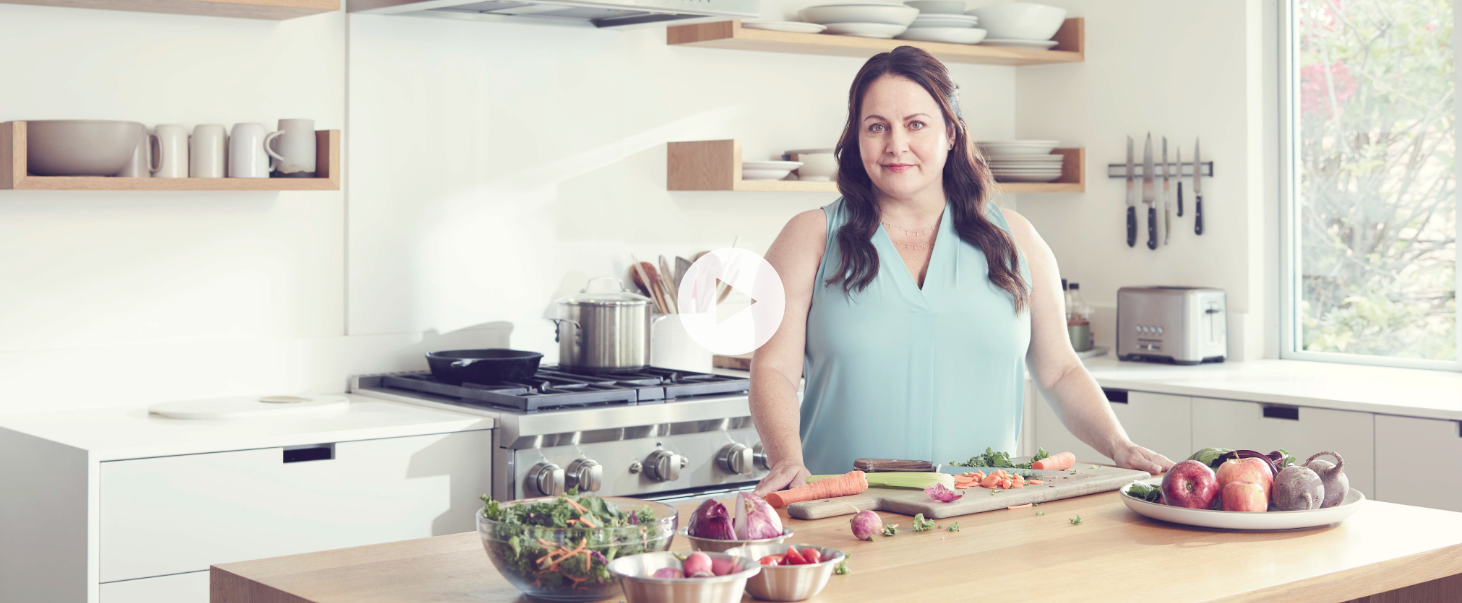
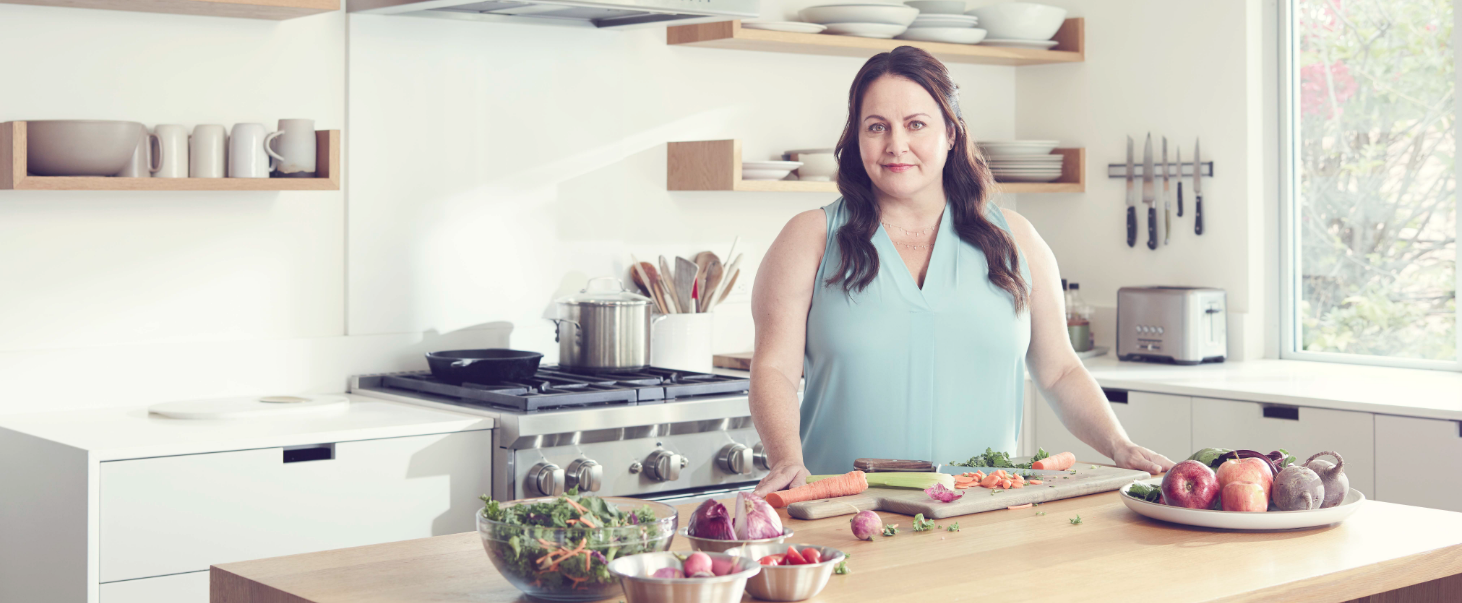
large version of background done, video done, header accordions z-index fixed

Changed region(s): [[0.4617, 0.4179, 0.554, 0.597]]

diff --git a/styles.css b/styles.css
@@ -17,8 +17,13 @@
 }
 
 .background__large {
-  background-image: url("src/background-large.png") !important;
-  height: 5142px;
+  background-image: url("src/background-large.png");
+  background-repeat: no-repeat;
+  z-index: 2;
+}
+
+.background__large:after {
+  opacity: 0.25;
 }
 
 .header {
@@ -125,14 +130,14 @@
   .header__categories-container {
     position: absolute;
     right: 0;
-    z-index: 1;
+    z-index: 100;
   }
 }
 
 @media (min-width: 1401px) and (max-width: 1700px) {
   .header__categories-container {
     position: absolute;
-    z-index: 1;
+    z-index: 100;
     right: calc(50% - 600px);
   }
 }
@@ -932,7 +937,6 @@
 }
 
 .video {
-  cursor: pointer;
   display: -webkit-box;
   display: -ms-flexbox;
   display: flex;
@@ -945,12 +949,48 @@
   -o-object-fit: cover;
      object-fit: cover;
   margin-bottom: 46px;
+  z-index: 2;
 }
 
-.video__actual {
+.video__wrapper {
+  position: relative;
+  cursor: pointer;
   width: 75%;
-  max-width: 1440px;
   height: auto;
+  max-width: 1440px;
+}
+
+@media screen and (max-width: 969px) {
+  .video__wrapper {
+    width: 100%;
+    height: 600px;
+  }
+}
+
+.video__wrapper:hover .video__button {
+  fill: #897ac8;
+  stroke: #897ac8;
+}
+
+.video__player {
+  width: 100%;
+  height: 100%;
+  max-height: 603px;
+  -o-object-fit: cover;
+     object-fit: cover;
+  -o-object-position: 65%;
+     object-position: 65%;
+}
+
+.video__button {
+  fill: #fff;
+  stroke: #fff;
+  stroke-width: 4;
+  opacity: 0.85;
+  position: absolute;
+  left: calc( 50% - 59px);
+  top: calc( 50% - 59px);
+  pointer-events: none;
 }
 
 body, html {

diff --git a/views/about.html b/views/about.html
@@ -10,7 +10,7 @@
 </head>
 
 <body>
-  <div class="background background__small"></div>
+  <div class="background background__large"></div>
   <div id="header" class="header">
     <div style="margin-top: 66px; margin-bottom: 77px;" class="header__container header__container--mt-66px">
       <img src="../src/logo-horizontal.png" alt="">
@@ -39,9 +39,16 @@
       </div>
     </div>
     <div class="video">
-      <video controls width="100%" height="100%" poster="../src/header-image-wide.png" id="player" playsinline>
-        <source src="../src/video1.mp4" type="video/mp4" />
-      </video>
+      <div class="video__wrapper">
+        <video class="video__player" poster="../src/header-image-wide.png" playsinline controls>
+          <source src="../src/video1.mp4" type="video/mp4" />
+        </video>
+        <svg class="video__button" xmlns="http://www.w3.org/2000/svg" width="107" height="107" viewBox="0 0 107 107">
+          <path
+            d="M987.225,452.852a51.873,51.873,0,1,0,51.875,51.873A51.874,51.874,0,0,0,987.225,452.852Zm26.045,54.272L993.8,518.366,974.324,529.61a2.77,2.77,0,0,1-4.154-2.4V482.239a2.77,2.77,0,0,1,4.154-2.4L993.8,491.084l19.474,11.243A2.769,2.769,0,0,1,1013.27,507.124Z"
+            transform="translate(-933.351 -450.852)" stroke-miterlimit="10" />
+        </svg>
+      </div>
     </div>
   </div>
 

diff --git a/components/video/video.css b/components/video/video.css
@@ -1,5 +1,4 @@
 .video {
-  cursor: pointer;
   display: -webkit-box;
   display: -ms-flexbox;
   display: flex;
@@ -12,10 +11,46 @@
   -o-object-fit: cover;
      object-fit: cover;
   margin-bottom: 46px;
+  z-index: 2;
 }
 
-.video__actual {
+.video__wrapper {
+  position: relative;
+  cursor: pointer;
   width: 75%;
-  max-width: 1440px;
   height: auto;
+  max-width: 1440px;
+}
+
+@media screen and (max-width: 969px) {
+  .video__wrapper {
+    width: 100%;
+    height: 600px;
+  }
+}
+
+.video__wrapper:hover .video__button {
+  fill: #897ac8;
+  stroke: #897ac8;
+}
+
+.video__player {
+  width: 100%;
+  height: 100%;
+  max-height: 603px;
+  -o-object-fit: cover;
+     object-fit: cover;
+  -o-object-position: 65%;
+     object-position: 65%;
+}
+
+.video__button {
+  fill: #fff;
+  stroke: #fff;
+  stroke-width: 4;
+  opacity: 0.85;
+  position: absolute;
+  left: calc( 50% - 59px);
+  top: calc( 50% - 59px);
+  pointer-events: none;
 }

diff --git a/components/video/video.sass b/components/video/video.sass
@@ -1,12 +1,39 @@
-.video //container
-  cursor: pointer
+.video
   display: flex
   justify-content: center
   align-items: center
   object-fit: cover
   margin-bottom: 46px
-
-  &__actual
+  z-index: 2
+  &__wrapper
+    position: relative
+    cursor: pointer
     width: 75%
-    max-width: 1440px
     height: auto
+    max-width: 1440px
+    @media screen and ( max-width: 969px )
+      width: 100%
+      height: 600px
+      
+    &:hover
+      .video__button
+        fill: #897ac8
+        stroke: #897ac8
+    
+
+  &__player
+    width: 100%
+    height: 100%
+    max-height: 603px
+    object-fit: cover
+    object-position: 65%
+
+  &__button
+    fill: #fff 
+    stroke: #fff
+    stroke-width: 4
+    opacity: 0.85
+    position: absolute
+    left: calc( 50% - 59px ) 
+    top: calc( 50% - 59px ) 
+    pointer-events: none

diff --git a/main.js b/main.js
@@ -1,4 +1,13 @@
 $(document).ready(function () {
+  //in video, hiding arrow button when video is playing
+  $('.video__wrapper').on('click', function(){
+    var video = $(this).find(".video__player").get(0);
+
+    if ( video.paused ) {
+        $(this).find(".video__button").hide();
+    }
+  });
+
   //smoothly scrolling to next section
   $('a[href^="#"]').on('click', function(event) {
     var target = $(this.getAttribute('href'));

diff --git a/components/header/header.sass b/components/header/header.sass
@@ -46,11 +46,11 @@
     @media screen and ( min-width: 1700px )
       position: absolute
       right: 0
-      z-index: 1
+      z-index: 100
       
     @media (min-width: 1401px) and ( max-width: 1700px )
       position: absolute
-      z-index: 1
+      z-index: 100
       right: calc(50% - 600px)
       
     @media screen and ( max-width: 969px )

diff --git a/components/header/header.css b/components/header/header.css
@@ -102,14 +102,14 @@
   .header__categories-container {
     position: absolute;
     right: 0;
-    z-index: 1;
+    z-index: 100;
   }
 }
 
 @media (min-width: 1401px) and (max-width: 1700px) {
   .header__categories-container {
     position: absolute;
-    z-index: 1;
+    z-index: 100;
     right: calc(50% - 600px);
   }
 }

diff --git a/components/background/background.css b/components/background/background.css
@@ -17,6 +17,11 @@
 }
 
 .background__large {
-  background-image: url("src/background-large.png") !important;
-  height: 5142px;
+  background-image: url("src/background-large.png");
+  background-repeat: no-repeat;
+  z-index: 2;
+}
+
+.background__large:after {
+  opacity: 0.25;
 }

diff --git a/components/background/background.sass b/components/background/background.sass
@@ -13,5 +13,8 @@
      opacity: 0.25 
 
   &__large
-    background-image: url("src/background-large.png") !important
-    height: 5142px
+    background-image: url("src/background-large.png")
+    background-repeat: no-repeat
+    z-index: 2
+    &:after
+     opacity: 0.25 
